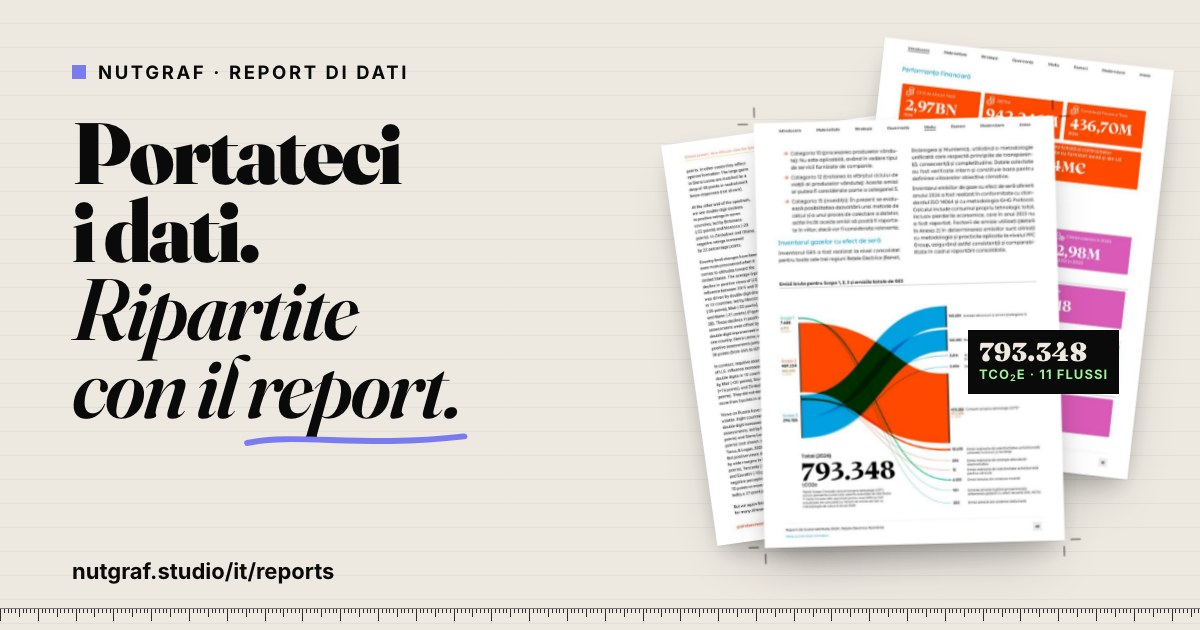
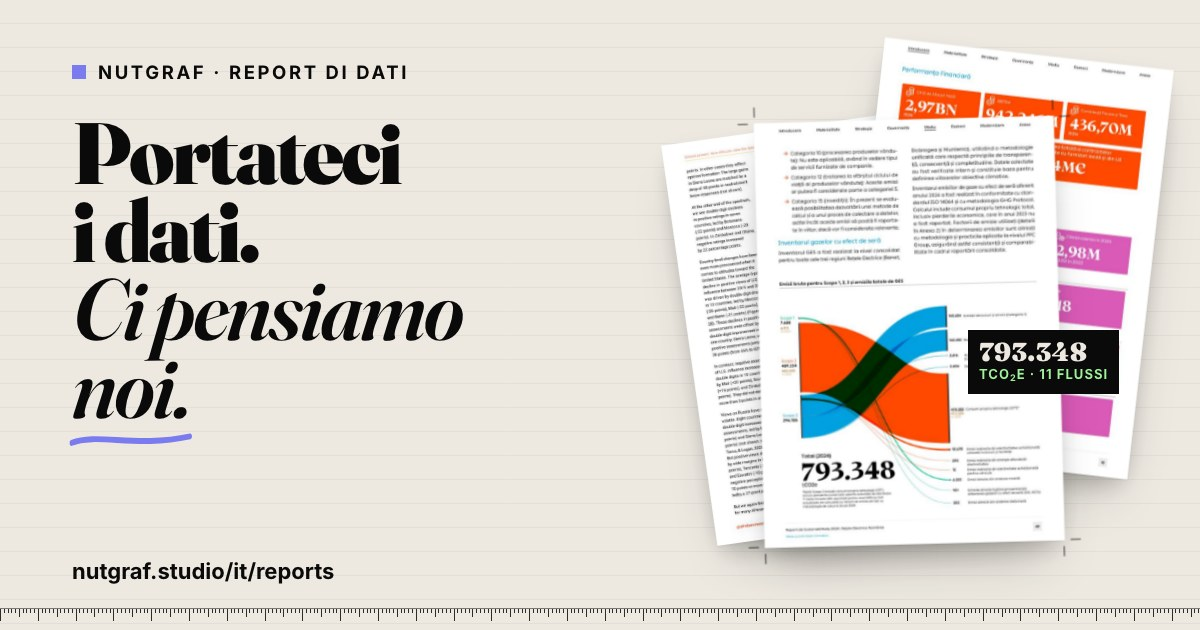
Italian reports: "Portateci i dati. Ci pensiamo noi."
The hero headline's second half was "Ripartite con il report."; the
underline moves to "noi.". The Italian share card is redrawn with the
same words and its og:image / twitter:image go to ?v=2.

Changed region(s): [[0.0617, 0.4222, 0.4008, 0.7238], [0.0617, 0.6937, 0.1542, 0.7238], [0.8942, 0.573, 0.925, 0.6032]]

diff --git a/it/reports/index.html b/it/reports/index.html
@@ -51,7 +51,7 @@ setTimeout(function () {
 <meta property="og:title" content="Report di dati, infografiche e dashboard — Nutgraf">
 <meta property="og:description" content="Visualizzazione dati, infografiche e report design per report di punta, annuali ed ESG, più report PDF trasformati in dashboard interattive e storie raccontate con i dati.">
 <meta property="og:url" content="https://nutgraf.studio/it/reports/">
-<meta property="og:image" content="https://nutgraf.studio/it/reports/og-image.jpg?v=1">
+<meta property="og:image" content="https://nutgraf.studio/it/reports/og-image.jpg?v=2">
 <meta property="og:image:width" content="1200">
 <meta property="og:image:height" content="630">
 <meta property="og:image:alt" content="Portateci i dati, ripartite con il report: il Sankey delle emissioni che Nutgraf ha progettato per il report di sostenibilità di Rețele Electrice.">
@@ -62,7 +62,7 @@ setTimeout(function () {
 <meta name="twitter:card" content="summary_large_image">
 <meta name="twitter:title" content="Report di dati, infografiche e dashboard — Nutgraf">
 <meta name="twitter:description" content="Visualizzazione dati, infografiche e report design per report di punta, annuali ed ESG, più report PDF trasformati in dashboard interattive e storie raccontate con i dati.">
-<meta name="twitter:image" content="https://nutgraf.studio/it/reports/og-image.jpg?v=1">
+<meta name="twitter:image" content="https://nutgraf.studio/it/reports/og-image.jpg?v=2">
 <meta name="twitter:image:alt" content="Portateci i dati, ripartite con il report: il Sankey delle emissioni che Nutgraf ha progettato per il report di sostenibilità di Rețele Electrice.">
 
 <!-- Structured data, one graph: the page, the service it sells and the
@@ -2417,8 +2417,8 @@ html:not(.js) .reveal { opacity: 1; transform: none; }
       <h1 id="hero-heading">
         <span class="hero-line"><span>Portateci</span></span>
         <span class="hero-line"><span>i dati.</span></span>
-        <span class="hero-line"><span><em>Ripartite</em></span></span>
-        <span class="hero-line"><span><em>con il <span class="fx">report.<svg class="fx-underline-svg" viewBox="0 0 300 40" preserveAspectRatio="none" aria-hidden="true"><path d="M6 26 C 70 10, 160 34, 294 16"/></svg></span></em></span></span>
+        <span class="hero-line"><span><em>Ci pensiamo</em></span></span>
+        <span class="hero-line"><span><em><span class="fx">noi.<svg class="fx-underline-svg" viewBox="0 0 300 40" preserveAspectRatio="none" aria-hidden="true"><path d="M6 26 C 70 10, 160 34, 294 16"/></svg></span></em></span></span>
       </h1>
       <p class="hero-sub">Sondaggi, fogli di calcolo, dati ESG: ne facciamo un report di punta che board, finanziatori e stampa leggeranno davvero. Mandateci il brief: entro una settimana torniamo da voi con un piano delle pagine, un sistema di grafici e un calendario.</p>
       <div class="hero-actions">

diff --git a/scripts/it/og/cards.html b/scripts/it/og/cards.html
@@ -160,7 +160,7 @@ var COPY = {
           lines: ['Bring us', 'the data.', '<em>Leave with</em>', '<em>the ' + fx('report.') + '</em>'],
           url: 'nutgraf.studio/reports', num: '793,348', unit: 'tCO<sub>2</sub>e · 11 flows' },
     it: { kicker: 'Nutgraf · Report di dati',
-          lines: ['Portateci', 'i dati.', '<em>Ripartite</em>', '<em>con il ' + fx('report.') + '</em>'],
+          lines: ['Portateci', 'i dati.', '<em>Ci pensiamo</em>', '<em>' + fx('noi.') + '</em>'],
           url: 'nutgraf.studio/it/reports', num: '793.348', unit: 'tCO<sub>2</sub>e · 11 flussi' }
   }
 };
